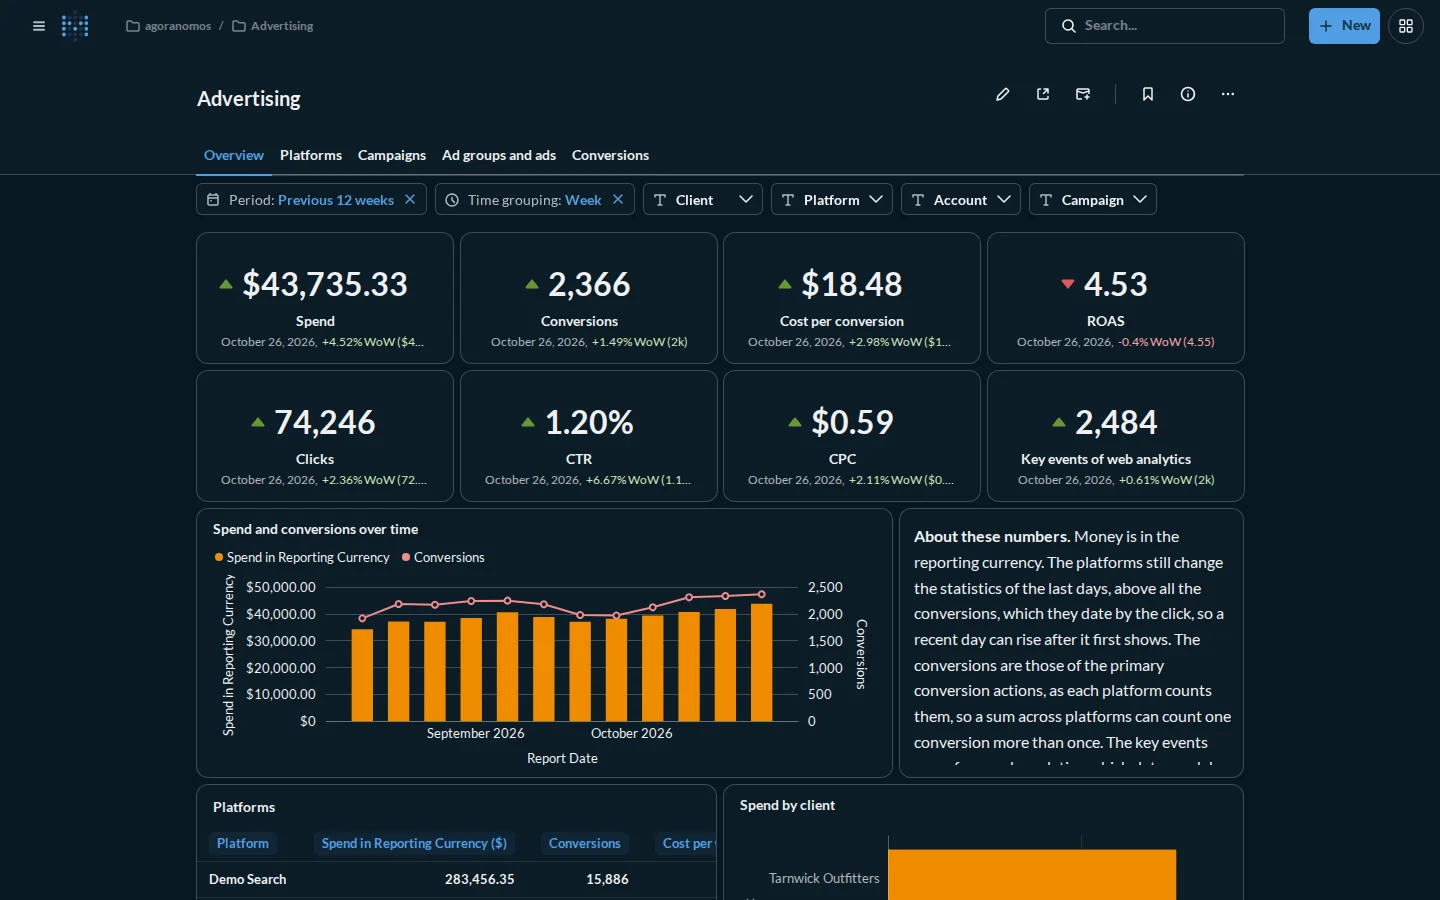
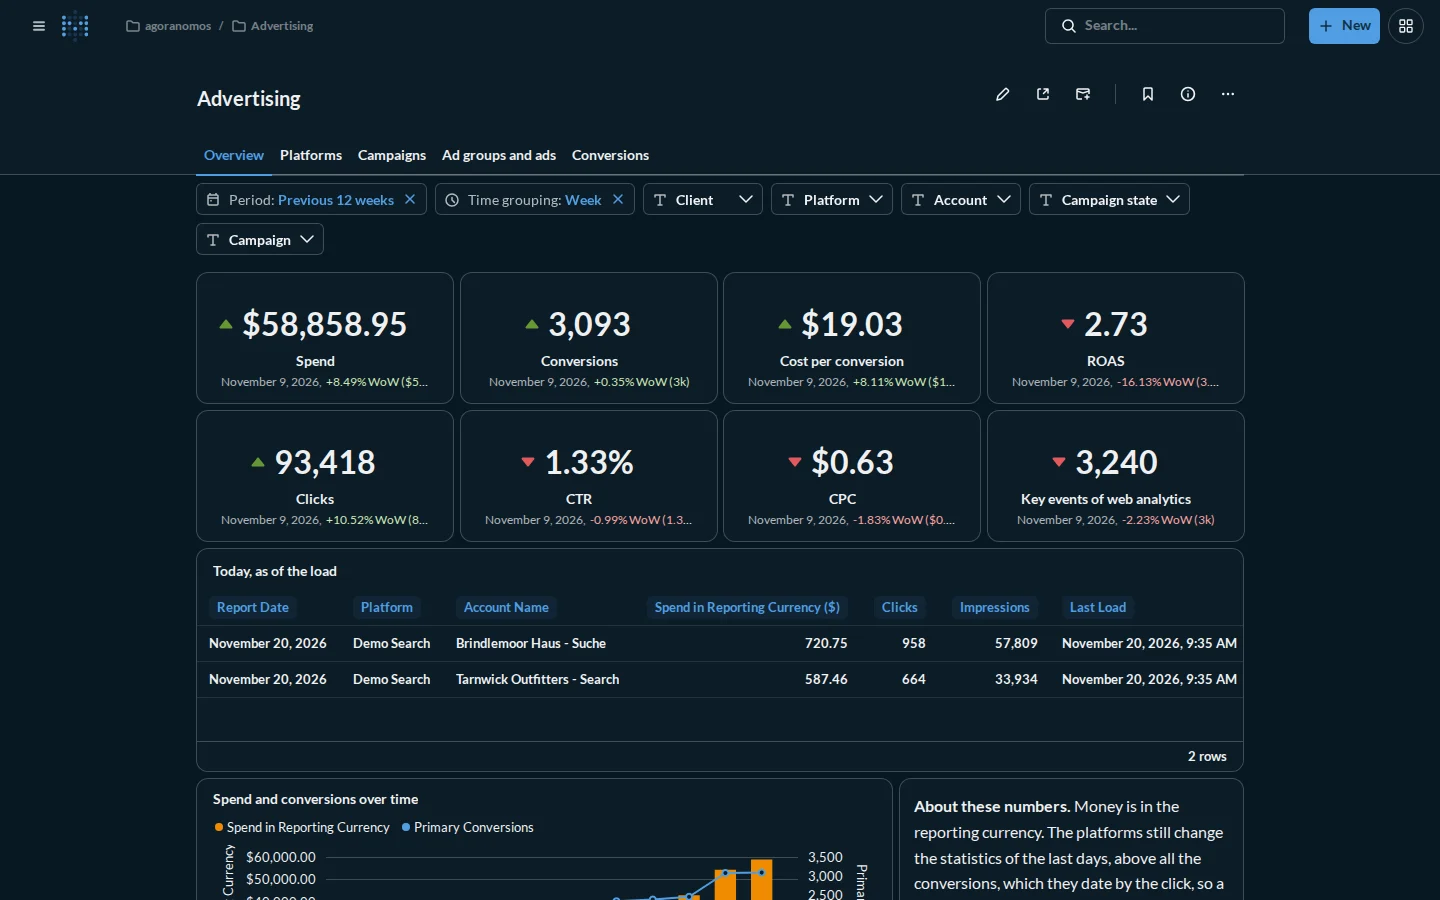
docs: retake the Overview tab with the card of today (#367)
The tab Overview of the dashboard Advertising has the card Today, as
of the load, between the KPIs and the trend since v0.6.0, and the
filter Campaign state, which wraps the filter Campaign to a second
row. The screenshots of the tab still showed it without them.

The two pictures come from the demo of v0.6.0 in local mode, after a
run of agoranomos_demo_intraday and the transform after it, so the
card shows the current day of the two accounts of Demo Search. The
framing, the size and the encoding are those of the earlier ones.

The visible part of the tab changed, so the alternative texts on Read
the advertising dashboard and on the home page name the card of today
and the top of the trend that is left.

Closes #358

diff --git a/docs/how-to/read-the-advertising-dashboard.md b/docs/how-to/read-the-advertising-dashboard.md
@@ -3,8 +3,8 @@
 The collection **agoranomos / Advertising** in Metabase holds the dashboard **Advertising**: the spend, the results and the KPIs of every ad platform of the deployment, on five tabs, for the period, the client, the platform, the account and the campaign of its filters ([ADR-0034](../adr/0034-define-a-basic-data-set-and-the-modules-of-an-extended-one.md)).
 
 <figure class="ag-shot" markdown="span">
-    ![The tab Overview of the dashboard Advertising in Metabase: the filters, the KPIs of the last week compared with the week before, and the spend and the conversions over time](../assets/screenshots/advertising-overview-light.webp#only-light){ width="1440" height="900" loading="lazy" }
-    ![The tab Overview of the dashboard Advertising in Metabase: the filters, the KPIs of the last week compared with the week before, and the spend and the conversions over time, in the dark theme](../assets/screenshots/advertising-overview-dark.webp#only-dark){ width="1440" height="900" loading="lazy" }
+    ![The tab Overview of the dashboard Advertising in Metabase: the filters, the KPIs of the last week compared with the week before, the card Today, as of the load, with the spend, the clicks and the impressions of each account on the current day, and the top of the chart of the spend and the conversions over time](../assets/screenshots/advertising-overview-light.webp#only-light){ width="1440" height="900" loading="lazy" }
+    ![The tab Overview of the dashboard Advertising in Metabase: the filters, the KPIs of the last week compared with the week before, the card Today, as of the load, with the spend, the clicks and the impressions of each account on the current day, and the top of the chart of the spend and the conversions over time, in the dark theme](../assets/screenshots/advertising-overview-dark.webp#only-dark){ width="1440" height="900" loading="lazy" }
     <figcaption>Metabase · agoranomos / Advertising · the tab Overview · demo data</figcaption>
 </figure>
 

diff --git a/docs/index.md b/docs/index.md
@@ -36,8 +36,8 @@ agoranomos is open-source marketing BI out of the box: ad platforms → PostgreS
 </div>
 
 <figure class="ag-shot" markdown="span">
-    ![The dashboard Advertising in Metabase on the demo data: its tabs and filters, the spend, the conversions and the other KPIs of the last 12 weeks, and the spend and the conversions over time](assets/screenshots/advertising-overview-light.webp#only-light){ width="1440" height="900" loading="lazy" }
-    ![The dashboard Advertising in Metabase on the demo data, in the dark theme of Metabase: its tabs and filters, the spend, the conversions and the other KPIs of the last 12 weeks, and the spend and the conversions over time](assets/screenshots/advertising-overview-dark.webp#only-dark){ width="1440" height="900" loading="lazy" }
+    ![The dashboard Advertising in Metabase on the demo data: its tabs and filters, the spend, the conversions and the other KPIs of the last 12 weeks, the spend, the clicks and the impressions of the current day as of its load, and the top of the chart of the spend and the conversions over time](assets/screenshots/advertising-overview-light.webp#only-light){ width="1440" height="900" loading="lazy" }
+    ![The dashboard Advertising in Metabase on the demo data, in the dark theme of Metabase: its tabs and filters, the spend, the conversions and the other KPIs of the last 12 weeks, the spend, the clicks and the impressions of the current day as of its load, and the top of the chart of the spend and the conversions over time](assets/screenshots/advertising-overview-dark.webp#only-dark){ width="1440" height="900" loading="lazy" }
     <figcaption>Metabase · the dashboard Advertising · demo data</figcaption>
 </figure>
 
